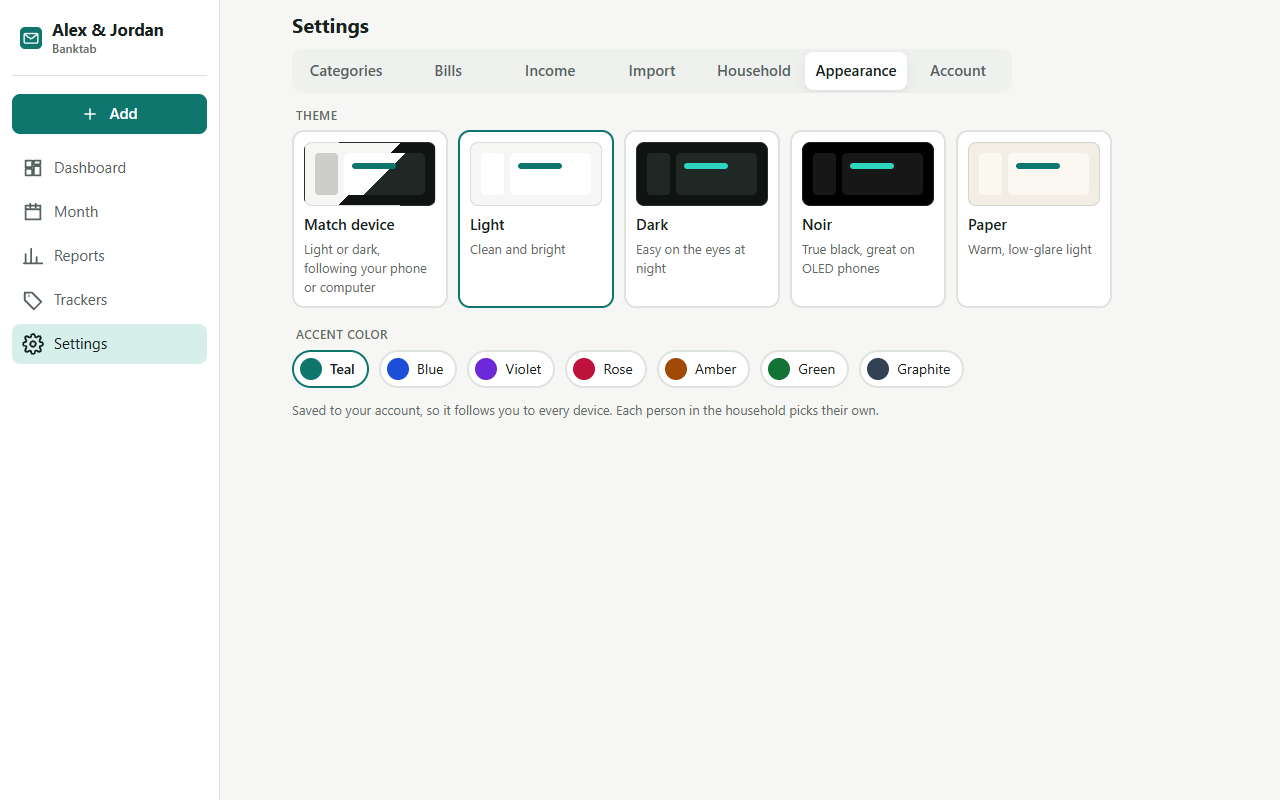
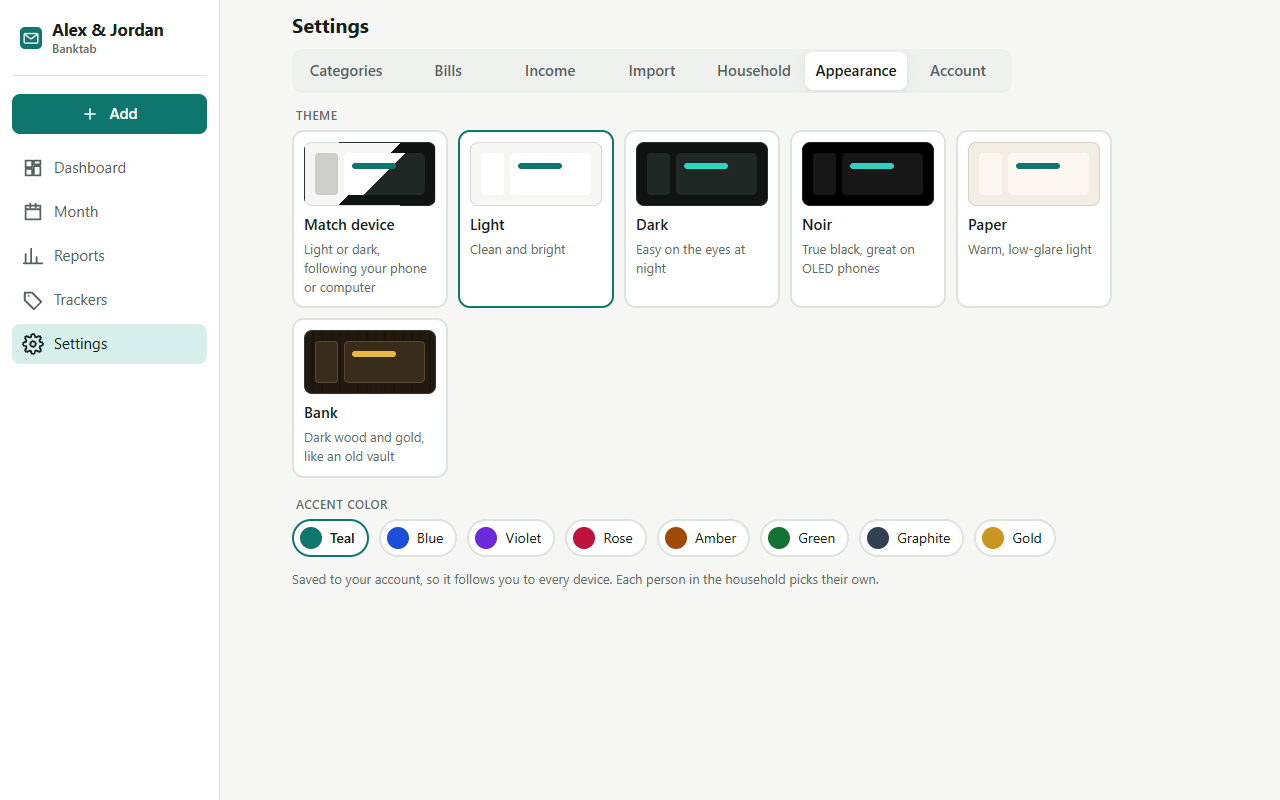
Add the Bank theme and a Gold accent
Dark wood, parchment text and gold. Built only from original colors and
CSS gradients (no game fonts, icons, textures or names). Picking Bank
switches to the Gold accent; any accent can still be chosen. All colors
meet WCAG AA contrast. README theme screenshot now shows Bank.

diff --git a/app/static/styles.css b/app/static/styles.css
@@ -15,6 +15,7 @@
 :root[data-accent="amber"]    { --a-light: #a14a08; --a-light-soft: #fdecd2; --a-dark: #fbbf24; --a-dark-soft: #3d2a0c; --a-dark-ink: #2a1a03; }
 :root[data-accent="green"]    { --a-light: #137336; --a-light-soft: #dcf3e3; --a-dark: #4ade80; --a-dark-soft: #143823; --a-dark-ink: #062a14; }
 :root[data-accent="graphite"] { --a-light: #334155; --a-light-soft: #e2e6eb; --a-dark: #e5e7eb; --a-dark-soft: #2a2d33; --a-dark-ink: #111214; }
+:root[data-accent="gold"]     { --a-light: #8a6410; --a-light-soft: #f6ead0; --a-dark: #e8b941; --a-dark-soft: #4a3714; --a-dark-ink: #2a1c06; }
 
 /* Light (also the default) */
 :root {
@@ -49,6 +50,23 @@
     --shadow: none; color-scheme: dark;
   }
 }
+/* Bank: dark wood, parchment text and gold, like an old vault. Original colors and CSS only. */
+:root[data-theme="bank"] {
+  --bg: #1f170f; --surface: #2c2116; --surface-2: #3a2c1d;
+  --ink: #f3e6c4; --ink-2: #d6c49b; --ink-3: #ab9771; --line: #4d3b28;
+  --accent: var(--a-dark); --accent-ink: var(--a-dark-ink); --accent-soft: var(--a-dark-soft); --bar: var(--a-dark);
+  --good: #9bd46f; --bad: #ff8a6b; --bad-soft: #43201a; --warn: #ffcf5c; --bar-over: #ff8a6b;
+  --shadow: inset 0 1px 0 rgba(255, 230, 170, .05), 0 2px 10px rgba(0, 0, 0, .35); color-scheme: dark;
+}
+/* Faint wood grain: long, soft vertical stripes drawn with gradients. */
+:root[data-theme="bank"] body {
+  background:
+    repeating-linear-gradient(90deg, rgba(255, 220, 160, .018) 0 2px, transparent 2px 9px, rgba(0, 0, 0, .05) 9px 10px, transparent 10px 23px),
+    linear-gradient(180deg, #231a11, #1b140d) fixed;
+}
+:root[data-theme="bank"] .nav { background: linear-gradient(180deg, #2a1f14, #241a10); }
+:root[data-theme="bank"] .card { border-color: #5a452d; }
+:root[data-theme="bank"] .top { background: rgba(33, 24, 16, .94); backdrop-filter: blur(3px); }
 /* Noir: true black, neutral greys (great on OLED phones) */
 :root[data-theme="noir"] {
   --bg: #000000; --surface: #0c0c0c; --surface-2: #171717;
@@ -398,7 +416,10 @@ kbd { font-family: var(--num); font-size: 12px; border: 1px solid var(--line); b
 .theme-preview[data-preview="paper"] { background: #f3eee4; } .theme-preview[data-preview="paper"] i, .theme-preview[data-preview="paper"] b { background: #fbf8f1; }
 .theme-preview[data-preview="dark"] { background: #0f1412; } .theme-preview[data-preview="dark"] i, .theme-preview[data-preview="dark"] b { background: #1f2824; }
 .theme-preview[data-preview="noir"] { background: #000; } .theme-preview[data-preview="noir"] i, .theme-preview[data-preview="noir"] b { background: #171717; }
+.theme-preview[data-preview="bank"] { background: repeating-linear-gradient(90deg, #221910 0 7px, #1d150e 7px 9px); }
+.theme-preview[data-preview="bank"] i, .theme-preview[data-preview="bank"] b { background: #3a2c1d; box-shadow: inset 0 0 0 1px #5a452d; }
 .theme-preview[data-preview="dark"] u, .theme-preview[data-preview="noir"] u { background: var(--a-dark); }
+.theme-preview[data-preview="bank"] u { background: #e8b941; }
 .theme-preview[data-preview="system"] { background: linear-gradient(135deg, #f6f7f5 50%, #0f1412 50%); }
 .theme-preview[data-preview="system"] i { background: linear-gradient(135deg, #fff 50%, #1f2824 50%); }
 .theme-preview[data-preview="system"] b { background: rgba(128, 128, 128, .35); }

diff --git a/app/static/app.js b/app/static/app.js
@@ -1621,12 +1621,15 @@ async function settingsHousehold(body) {
 }
 
 const THEMES = [["system", "Match device", "Light or dark, following your phone or computer"], ["light", "Light", "Clean and bright"],
-  ["dark", "Dark", "Easy on the eyes at night"], ["noir", "Noir", "True black, great on OLED phones"], ["paper", "Paper", "Warm, low-glare light"]];
+  ["dark", "Dark", "Easy on the eyes at night"], ["noir", "Noir", "True black, great on OLED phones"], ["paper", "Paper", "Warm, low-glare light"],
+  ["bank", "Bank", "Dark wood and gold, like an old vault"]];
 const ACCENTS = [["teal", "Teal", "#0f766e"], ["blue", "Blue", "#1d4ed8"], ["violet", "Violet", "#6d28d9"], ["rose", "Rose", "#be123c"],
-  ["amber", "Amber", "#a14a08"], ["green", "Green", "#137336"], ["graphite", "Graphite", "#334155"]];
+  ["amber", "Amber", "#a14a08"], ["green", "Green", "#137336"], ["graphite", "Graphite", "#334155"], ["gold", "Gold", "#c9971f"]];
 
 function settingsAppearance(body) {
   const save = async (patch) => {
+    // The Bank theme comes with gold; any accent can still be picked afterwards.
+    if (patch.theme === "bank" && S.user.theme !== "bank" && !patch.accent) patch = { ...patch, accent: "gold" };
     const theme = patch.theme || S.user.theme, accent = patch.accent || S.user.accent;
     applyTheme(theme, accent);  // instant; the server copy makes it follow you to other devices
     try { await api("PATCH", "/api/account", patch); await loadState(); draw(); } catch (x) { toast(x.message, true); }

diff --git a/app/static/index.html b/app/static/index.html
@@ -12,12 +12,12 @@
   <link rel="manifest" href="/manifest.webmanifest">
   <link rel="icon" href="/static/icon.svg" type="image/svg+xml">
   <link rel="apple-touch-icon" href="/static/icon-192.png">
-  <link rel="stylesheet" href="/static/styles.css?v=5">
-  <script src="/static/theme.js?v=5"></script>
+  <link rel="stylesheet" href="/static/styles.css?v=6">
+  <script src="/static/theme.js?v=6"></script>
 </head>
 <body>
   <div id="app" aria-live="polite"></div>
   <div id="toast" role="status"></div>
-  <script src="/static/app.js?v=5" type="module"></script>
+  <script src="/static/app.js?v=6" type="module"></script>
 </body>
 </html>

diff --git a/app/static/sw.js b/app/static/sw.js
@@ -1,6 +1,6 @@
 // Caches the app shell so it opens instantly. Budget data (/api/) is never cached.
-const VERSION = "banktab-v5";
-const SHELL = ["/", "/static/styles.css?v=5", "/static/app.js?v=5", "/static/theme.js?v=5", "/static/icon.svg", "/manifest.webmanifest"];
+const VERSION = "banktab-v6";
+const SHELL = ["/", "/static/styles.css?v=6", "/static/app.js?v=6", "/static/theme.js?v=6", "/static/icon.svg", "/manifest.webmanifest"];
 
 self.addEventListener("install", (e) => {
   e.waitUntil(caches.open(VERSION).then((c) => c.addAll(SHELL)).then(() => self.skipWaiting()));

diff --git a/app/main.py b/app/main.py
@@ -44,8 +44,8 @@ MAX_HOUSEHOLDS = int(os.environ.get("BUDGET_MAX_HOUSEHOLDS", "100"))
 BACKUP_KEEP = int(os.environ.get("BUDGET_BACKUP_KEEP", "14"))
 VERSION = "1.0.0"
 SOURCE_URL = os.environ.get("BUDGET_SOURCE_URL", "")
-THEMES = ("system", "light", "dark", "noir", "paper")
-ACCENTS = ("teal", "blue", "violet", "rose", "amber", "green", "graphite")
+THEMES = ("system", "light", "dark", "noir", "paper", "bank")
+ACCENTS = ("teal", "blue", "violet", "rose", "amber", "green", "graphite", "gold")
 MAX_BODY = 3 * 1024 * 1024  # bytes; CSV imports are the biggest requests
 COOKIE = "budget_session"
 SESSION_DAYS = 90
@@ -663,8 +663,8 @@ def delete_household(body: PasswordConfirm, request: Request, response: Response
 class AccountPatch(BaseModel):
     display_name: str | None = Field(None, min_length=1, max_length=60)
     email: str | None = Field(None, max_length=254)
-    theme: Literal["system", "light", "dark", "noir", "paper"] | None = None
-    accent: Literal["teal", "blue", "violet", "rose", "amber", "green", "graphite"] | None = None
+    theme: Literal["system", "light", "dark", "noir", "paper", "bank"] | None = None
+    accent: Literal["teal", "blue", "violet", "rose", "amber", "green", "graphite", "gold"] | None = None
 
 
 @app.patch("/api/account")

diff --git a/tests/test_accounts.py b/tests/test_accounts.py
@@ -379,6 +379,9 @@ def test_theme_currency_backup_health(env):
     assert p.get("/api/health").json()["ok"] is True
     assert p.patch("/api/account", headers=H, json={"theme": "noir", "accent": "violet"}).status_code == 200
     assert p.patch("/api/account", headers=H, json={"theme": "neon"}).status_code == 422
+    assert p.patch("/api/account", headers=H, json={"theme": "bank", "accent": "gold"}).status_code == 200
+    assert p.get("/api/state").json()["user"]["theme"] == "bank"
+    p.patch("/api/account", headers=H, json={"theme": "noir", "accent": "violet"})
     st = p.get("/api/state").json()
     assert st["user"]["theme"] == "noir" and st["user"]["accent"] == "violet"
     assert p.patch("/api/household", headers=H, json={"currency": "eur"}).status_code == 422

diff --git a/README.md b/README.md
@@ -55,7 +55,7 @@ the month, and whatever's left in a tab stays there for later.
 **Households**
 - Several households per server, **each in its own database file**.
 - Invite a partner by link; owners and members; sign-up with email confirmation; password reset.
-- Five themes (Match device, Light, Dark, Noir, Paper) and seven accent colors, per person.
+- Six themes (Match device, Light, Dark, Noir, Paper and Bank: dark wood and gold) and eight accent colors, per person.
 - Installable on a phone (PWA), currency per household, CSV export and full-backup download.
 
 <table>
@@ -65,7 +65,7 @@ the month, and whatever's left in a tab stays there for later.
   </tr>
   <tr>
     <td><img src="docs/screenshots/import.png" alt="Bank CSV import review with categories guessed and a transfer flagged"><br><sub><b>Bank import.</b> Every row reviewed; transfers and duplicates flagged.</sub></td>
-    <td><img src="docs/screenshots/theme-noir.png" alt="Dashboard in the Noir theme with a violet accent"><br><sub><b>Themes.</b> Noir with a violet accent.</sub></td>
+    <td><img src="docs/screenshots/theme-bank.png" alt="Dashboard in the Bank theme: dark wood, parchment text and gold"><br><sub><b>Themes.</b> Bank: dark wood and gold.</sub></td>
   </tr>
 </table>
 
